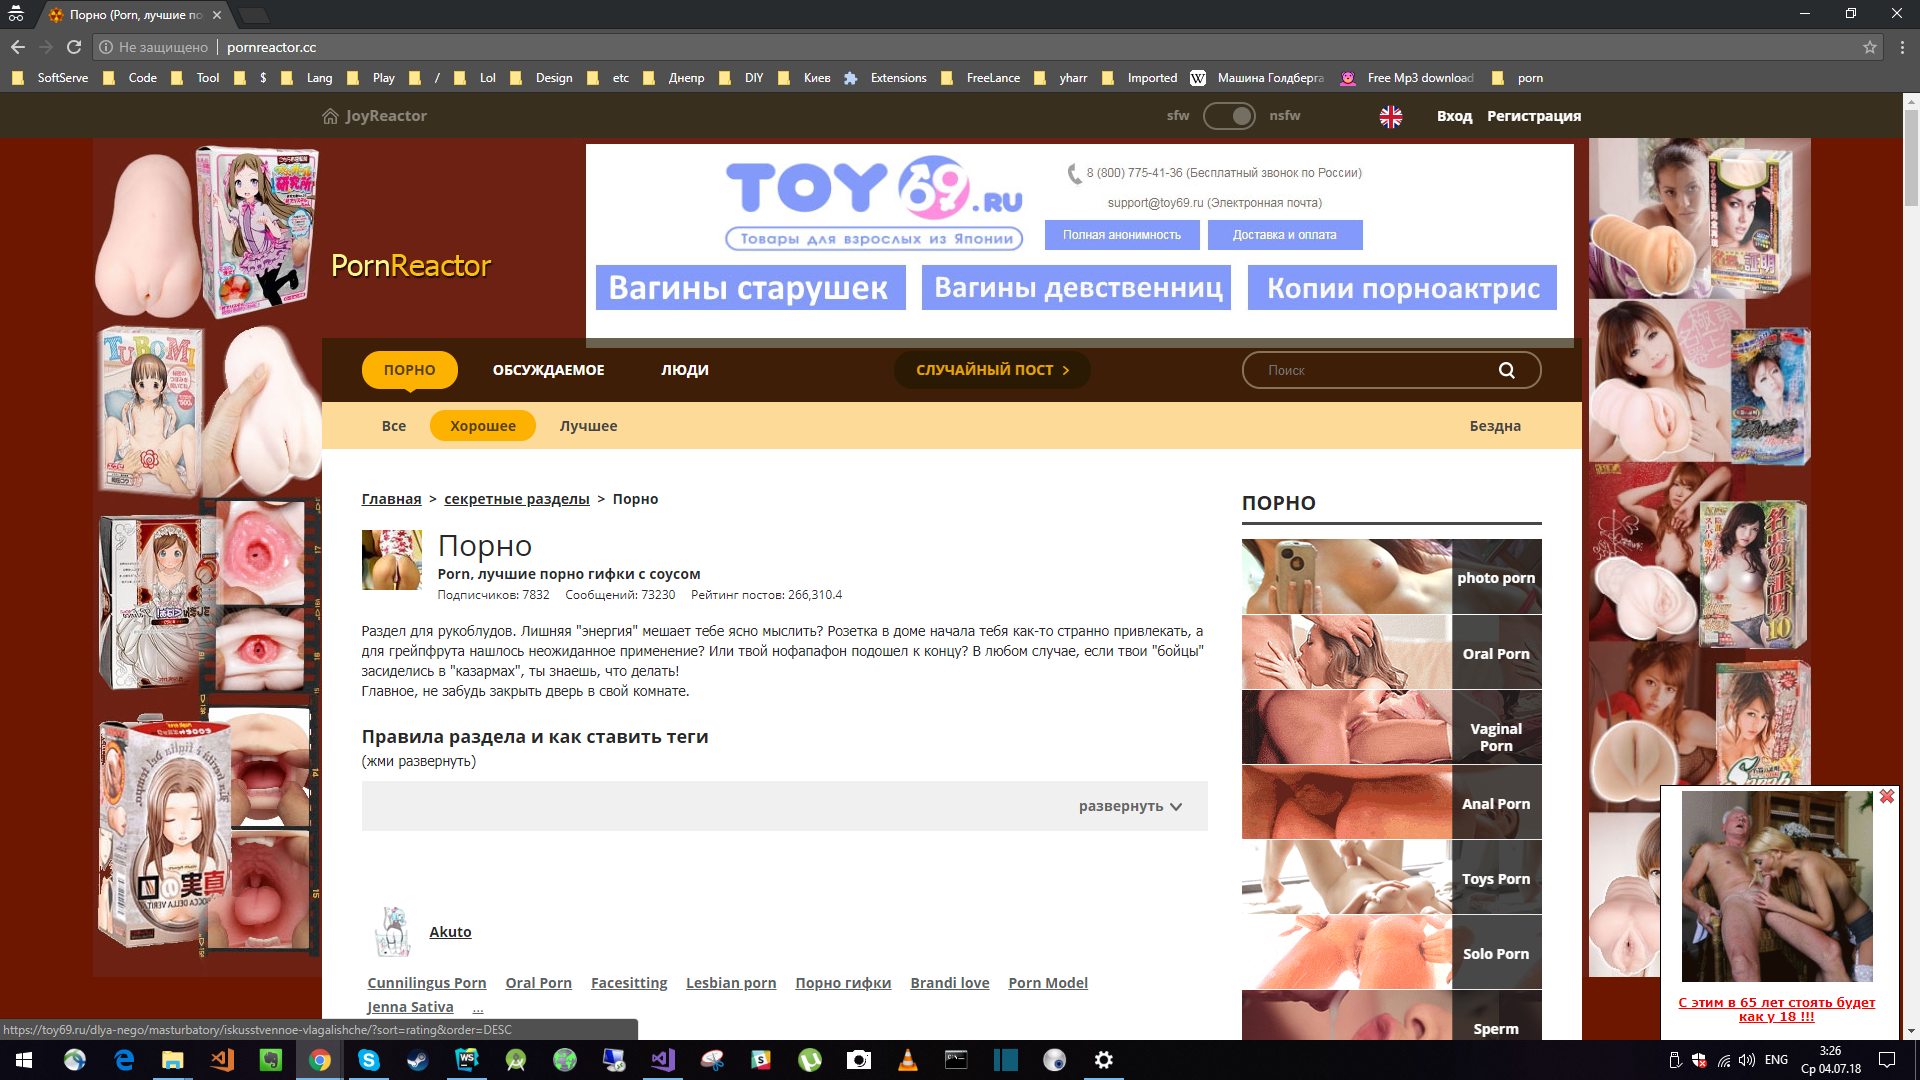
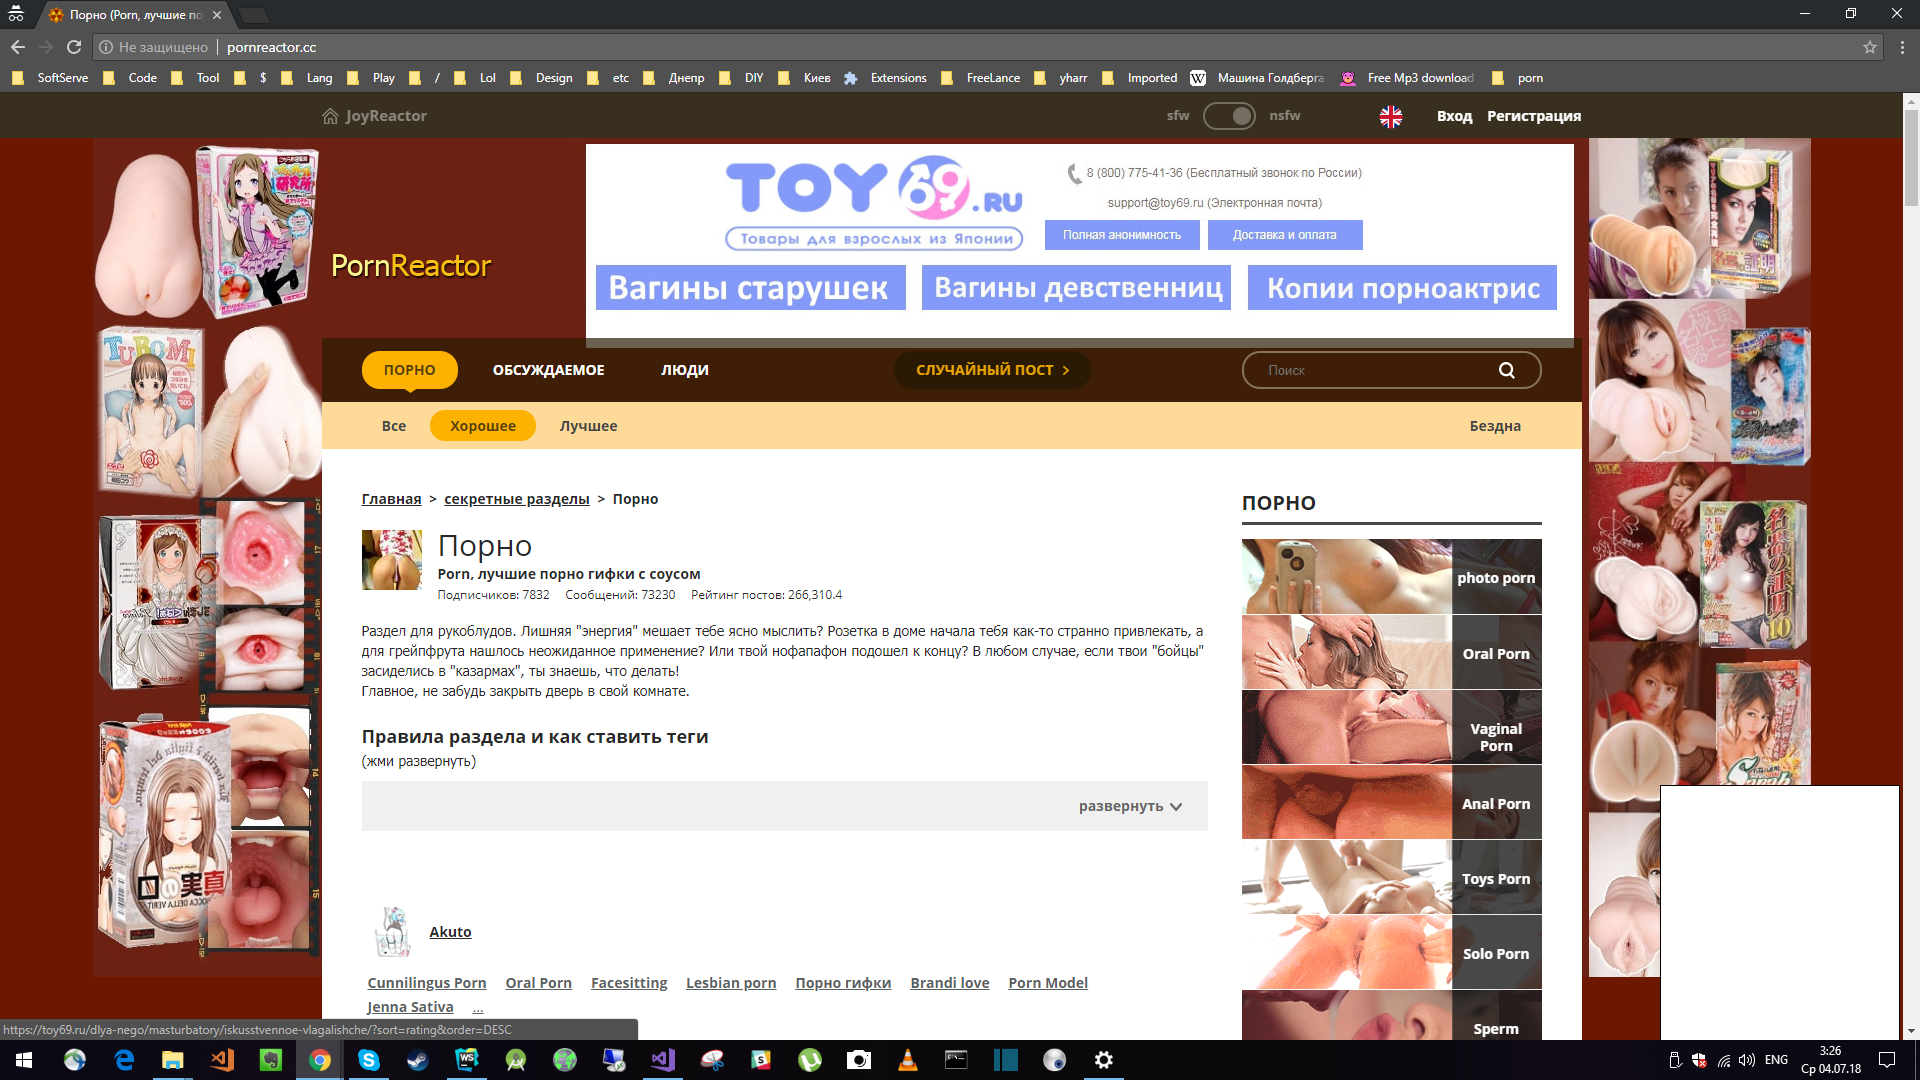
update logic with using pureimage library, fix unit test.

Changed region(s): [[0.875, 0.7333, 1.0, 0.9472]]

diff --git a/index.test.js b/index.test.js
@@ -1,43 +1,49 @@
 "use strict";
 const convert = require('./index');
 const assert = require('assert');
+const pi = require('pureimage');
 const fs = require('fs');
-const getPixels = require('get-pixels');
-const base64 = require('base-64');
+const PNG = require('pngjs').PNG;
+const pixelmatch = require('pixelmatch');
 describe('Index', () => {
     it('Should have a function "convert"', () => {
         assert(convert instanceof Function);
     });
-    it('Should return empty array if no parameters given', () => {
-        assert(convert() instanceof Array);
+    it('Should throw exception if no parameters given', () => {
+        try {
+            // noinspection JSCheckFunctionSignatures
+            convert();
+        } catch (e) {
+            assert(true);
+        }
     });
-    it('Should return an array of pixels with black square instead of given image', () => {
-        getPixels('./test-data/img-to-convert.png',
-            (err, pixels) => {
-                err && (()=>{ console.log("Bad image path"); throw new Error('Bad image path'); })();
-                const imgToConvert = pixels.shape;
-                console.log("imgToConvert", imgToConvert);
-                getPixels('./test-data/img-ad.png', (err, pixels) => {
-                    err && (()=>{ console.log("Bad image path"); throw new Error('Bad image path'); })();
-                    const imgAd = pixels.shape;
-                    console.log('imgAd:', imgAd);
+    it('Should return an image with white square instead of given image', (done) => {
+        pi.decodePNGFromStream(fs.createReadStream('test-data/img-to-convert.png')).then((imgToConvert) => {
+            console.log('imgToConvert', imgToConvert.width, imgToConvert.height);
+            const result = convert(imgToConvert, [{
+                x: 1662,
+                y: 786,
+                width: 237,
+                height: 249
+            }]);
+            pi.decodePNGFromStream(fs.createReadStream('test-data/img-result.png')).then((imgResult) => {
+                pi.encodePNGToStream(result, fs.createWriteStream('test-data/tmp.png')).then(()=>{
+                    const imgResultPngStream = fs.createReadStream('test-data/img-result.png').pipe(new PNG()).on('parsed', doneReading);
+                    const imgTmpPngStream = fs.createReadStream('test-data/tmp.png').pipe(new PNG()).on('parsed', doneReading);
+                    let filesRead = 0;
 
-                    getPixels('./test-data/img-result.png', (err, pixels) => {
-                        err && (()=>{ console.log("Bad image path"); throw new Error('Bad image path'); })();
-                        const imgResult = pixels.shape;
-                        console.log('imgResult:', imgResult);
-                        console.log('imgAd[1].length', imgAd[1]);
-                       assert.deepEqual(convert(imgToConvert, [{
-                           imgToReplaceRect: {
-                               left: 0,
-                               top: imgAd[1],
-                               right: imgAd[0],
-                               bottom: 0
-                           },
-                       }]), imgResult);
-                    });
+                    function doneReading() {
+                        if (++filesRead < 2) return;
+                        const diff = new PNG({width: imgResultPngStream.width, height: imgResultPngStream.height});
+
+                        const diffPixelsCount = pixelmatch(imgResultPngStream.data, imgTmpPngStream.data, diff.data, imgResultPngStream.width, imgResultPngStream.height, {threshold: 0.85});
+                        assert(diffPixelsCount === 0, 'Difference should be 0!');
+                        diff.pack().pipe(fs.createWriteStream('test-data/diff.png'));
+                        console.log('done!');
+                        done();
+                    }
                 });
-            }
-        );
-    });
+            });
+        });
+    }).timeout(10000);
 });

diff --git a/index.js b/index.js
@@ -1,17 +1,25 @@
 "use strict";
-const convert = (imgToConvert, adImg) => {
-    if (!imgToConvert) {
-        return [];
-    } else if (adImg) {
-        return imgToConvert.map((pixel, index) => {
-            if (adImg[index] && adImg[index] === pixel) {
-                return 0;
-            } else {
-                return pixel;
-            }
+const pi = require('pureimage');
+/**
+ * Remove given array of rectangles with white color in given image (return a copy);
+ * @param imgToConvert {Bitmap}
+ * @param adRects {Array<{x: Number, y: Number, width: Number, height: Number}>}
+ * @returns {Bitmap}
+ */
+const convert = (imgToConvert, adRects) => {
+    const result = pi.make(imgToConvert.width, imgToConvert.height, {});
+    const resultCtx = result.getContext('2d');
+    resultCtx.drawImage(imgToConvert, 0, 0, imgToConvert.width, imgToConvert.height, 0, 0, imgToConvert.width, imgToConvert.height);
+    if (imgToConvert && adRects) {
+        adRects.forEach((rect) => {
+            resultCtx.fillStyle = 'white';
+            resultCtx.fillRect(rect.x, rect.y, rect.width, rect.height);
         });
+        return result;
+
     } else {
-        throw new Error('Expected 2 parameters (arrays of bytes)');
+        throw new Error('Expected 2 parameters (The first is arrays of bytes, and the second is the array of objects)');
     }
 };
+
 if (typeof module !== 'undefined') module.exports = convert;
